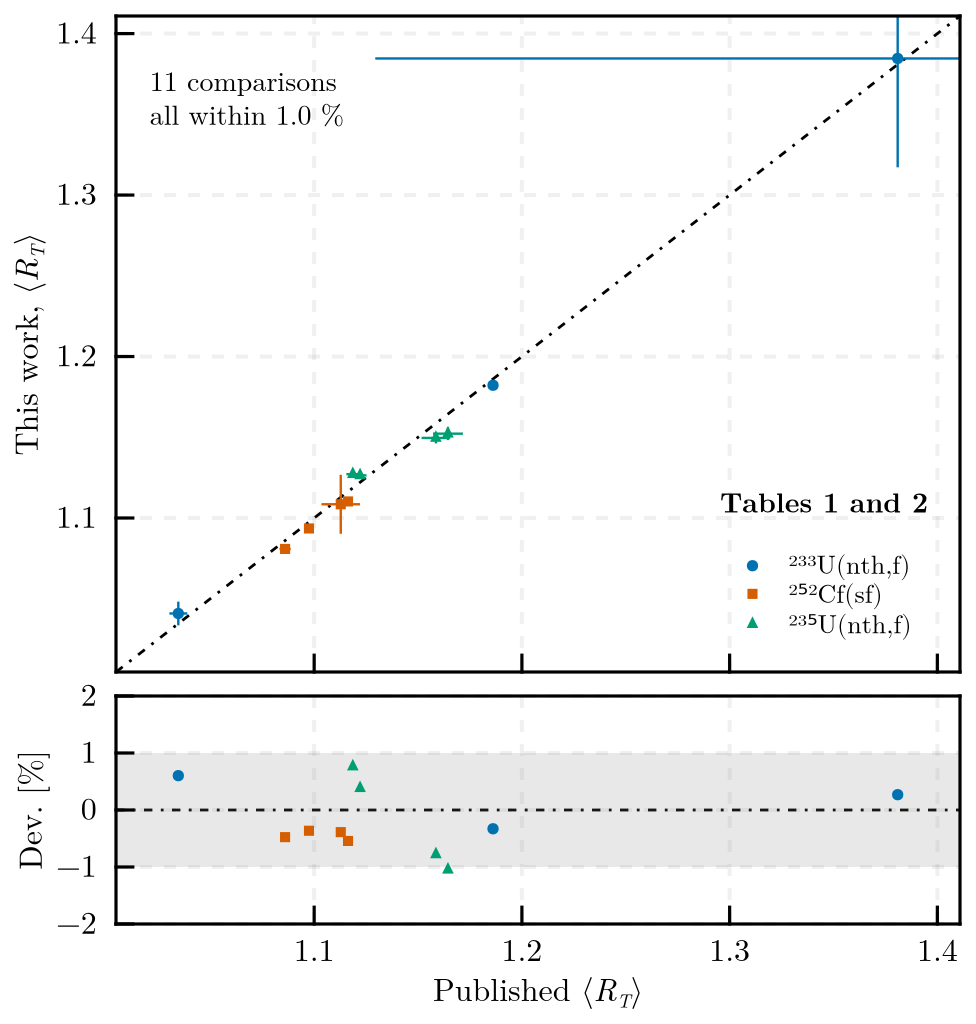
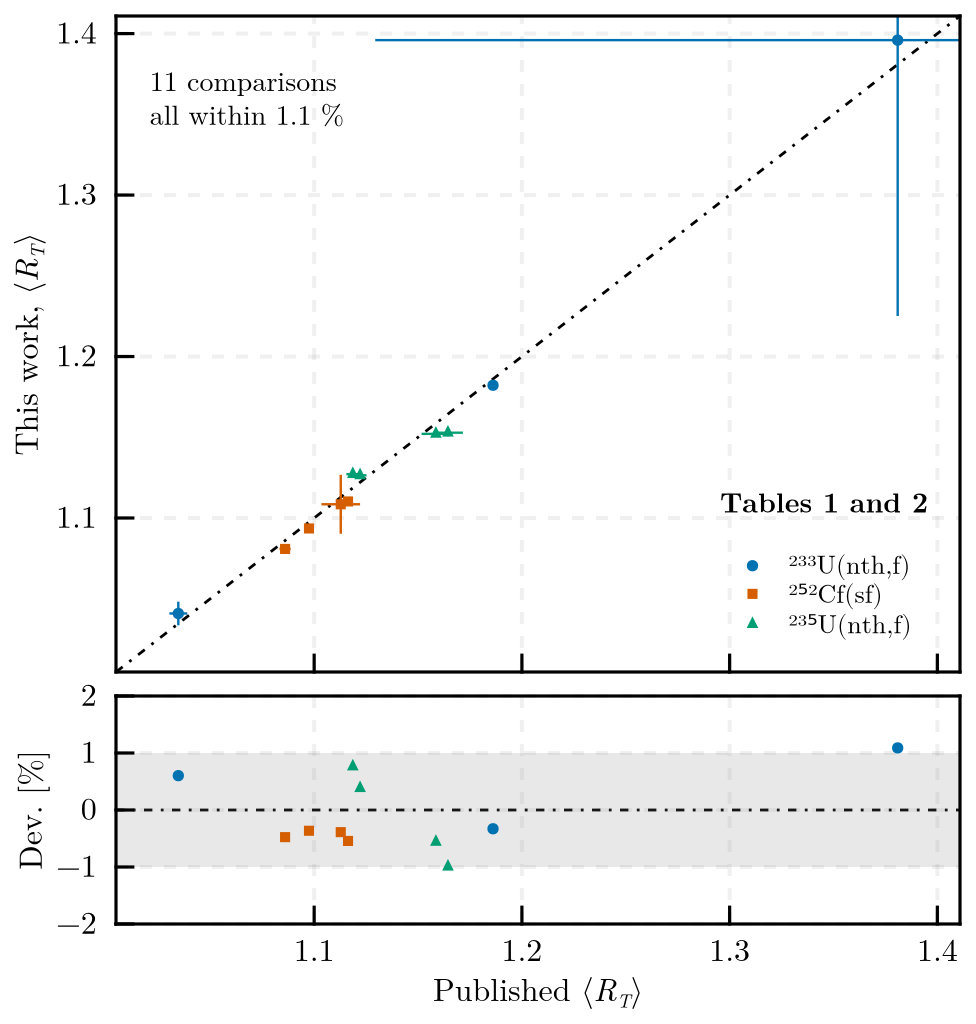
fix: pin r_nu = 1/2 at the symmetric split only
fit_segments pins at the first abscissa it is given, and the pipeline passed
each dataset's own abscissae, so a dataset whose first complete fragment pair
lies above A0/2 was pinned to one half there: 235-U Nishio 1998 at A_H = 126
(measured 0.280 +/- 0.038), 252-Cf Britt 1964 at 136, thirteen of the 35
shipped per-dataset curves in all. The configuration check on heavy_mass_min
guarded the configured range, not the data.

The pin is now applied only to a curve whose first complete pair is A0/2;
other datasets are fitted unpinned and the run reports which. Every manifest
entry states pinned_at_symmetric_split, and the symmetry diagnostics inspect
every curve instead of the first and warn on a pin at any other abscissa.

Against Table 1 of EPJA 60, 190 (2024): 239-Pu Nishio moves from 2.0 % to
0.09 %, 235-U Nishio from 0.78 %/1.05 % to 0.56 %/1.00 %, 233-U Fraser from
0.27 % to 1.09 %. Curves starting at the symmetric split, and all trend
curves, are unchanged.

Tests: a synthetic pipeline run with one dataset starting above the symmetric
split (fails on the previous code), and the eleven identifiable rows of
Table 1 asserted with per-row tolerances where the input data is present.
README validation table, method page, changelog and the published-comparison
figure follow; its annotation now rounds the worst deviation up, not to
nearest.

diff --git a/README.md b/README.md
@@ -16,7 +16,7 @@ The method, its conventions and its equation numbering are those of A. Tudora an
 *Eur. Phys. J. A* **60**, 190 (2024),
 [doi:10.1140/epja/s10050-024-01375-7](https://doi.org/10.1140/epja/s10050-024-01375-7), and this
 package reproduces the results published there: the total average temperature ratios of its
-Tables 1 and 2 come back to better than one per cent for ²³³U(nth,f), ²⁵²Cf(sf) and ²³⁵U(nth,f).
+Tables 1 and 2 come back to within 1.1 % for ²³³U(nth,f), ²⁵²Cf(sf) and ²³⁵U(nth,f).
 The [validation status](#validation-status) below states exactly what has been checked against the
 paper and what has not.
 
@@ -351,6 +351,7 @@ label = "K. Nishio 1998"
 kind = "dataset"             # or "systematic_trend"
 pooled = true
 segments = 5
+pinned_at_symmetric_split = true   # false for a dataset whose complete pairs begin above A0/2
 temperature_ratio_file = "R_T_vs_A_H_segmented_....csv"
 multiplicity_ratio_pivots_file = "r_nu_vs_A_H_pivots_....csv"
 ```
@@ -398,7 +399,7 @@ and `R_T` follows by the relation above.
 
 Constraints that are exact are enforced rather than fitted: the charge polarization vanishes at
 the symmetric split, where the two fragments are the same nuclide; `r_ν` is pinned to one half
-there; and the fitted curve may not leave `(0, 1)`, outside which the relation above is
+there, for every curve whose data reach it; and the fitted curve may not leave `(0, 1)`, outside which the relation above is
 undefined. Together these make `R_T(A₀/2) = 1` hold exactly, as an outcome rather than an
 imposition.
 
@@ -437,17 +438,20 @@ Verified:
   again near the most probable fragmentation, and a near-linear rise above it.
 - Sensitivity to the charge polarization. Substituting a tabulated polarization for the average
   values moves `R_T(A_H)` by at most 3.4 %, with a median of 0.27 %, worst at the shell minimum.
-- **The published total averages, to better than one per cent.** The `⟨R_T⟩` of Table 1 of the
+- **The published total averages, to within 1.1 %.** The `⟨R_T⟩` of Table 1 of the
   paper, per `ν(A)` dataset and per `Y(A)` distribution, comes back from independently retrieved
   archive data:
 
   | System | `Y(A)` | Datasets compared | Largest deviation |
   |---|---|---|---|
-  | ²³³U(nth,f) | Surin | 3 of 3 | 0.60 % |
+  | ²³³U(nth,f) | Surin | 3 of 3 | 1.09 % |
   | ²⁵²Cf(sf) | Göök | 4 of 5 | 0.55 % |
-  | ²³⁵U(nth,f) | Al-Adili, Straede | 2 of 3 | 1.05 % |
+  | ²³⁵U(nth,f) | Al-Adili, Straede | 2 of 3 | 1.00 % |
 
   ![Published comparison](docs/src/assets/published_comparison.png)
+
+  The 1.09 % is Fraser's 233-U set, which quotes no uncertainties, has fifteen usable fragment
+  pairs, and carries ±0.25 in the published table; the other two 233-U rows are within 0.60 %.
 
   Table 2 reproduces too: the Gilbert-Cameron variant to 0.21 %, and the one-charge-per-mass
   variant to 0.80 %. The remaining datasets could not be compared because the archive query did
@@ -470,11 +474,11 @@ Verified:
 
 Not verified:
 
-- **²³⁹Pu(nth,f) is not reproduced to the same level**, deviating by 0.7 % to 2.1 %. The published
-  table averages over a yield distribution its caption does not name, and over a second that is
-  calculated rather than measured and so cannot be retrieved; neither distribution used here is
-  demonstrably the one it used. This is an input identification problem rather than a
-  disagreement about the method, but it is unresolved.
+- **²³⁹Pu(nth,f) is reproduced only in part.** The published table averages over a yield
+  distribution its caption does not name, and over a second that is calculated and cannot be
+  retrieved. With the Nishio 1995 `Y(A)`, the Nishio `ν(A)` row comes back to 0.09 % and Fraser to
+  0.7 %, but Apalin and Zamyatnin deviate by 2.0 % and 2.1 %, so the identification of the yield
+  distribution stays open.
 - The effect of using the undeformed Gilbert-Cameron correlation for every fragment. That paper
   fits a second line for deformed nuclei, Eq. (21), with the same slope and an offset some fifteen
   per cent lower. Applying Eq. (20) throughout is deliberate — the data behind the deformed branch

diff --git a/CHANGELOG.md b/CHANGELOG.md
@@ -89,6 +89,19 @@ names while refusing old keys is worse to debug than a clean break.
 
 ### Fixed
 
+- **The pin `r_ν = 1/2` was applied at the first abscissa of each dataset, not at the symmetric
+  split.** `r_ν = 1/2` is an identity at `A₀/2` only, but a dataset whose first complete fragment
+  pair lies above it was pinned to one half there: 235-U Nishio 1998 at `A_H = 126`, where the
+  measured ratio is 0.28, 252-Cf Britt 1964 at 136, and eleven others across the four shipped
+  systems. **This moves the numbers** of those thirteen curves — `R_T(A_H)` near the first
+  abscissa by tens of per cent, `⟨R_T⟩` by up to 31 % for the sparsest sets — and leaves every
+  curve that starts at the symmetric split, and every systematic-trend curve, unchanged. Such
+  datasets are now fitted unpinned, the run reports which, and each manifest entry carries
+  `pinned_at_symmetric_split`. Against Table 1 of the paper the 239-Pu Nishio row moves from
+  2.0 % to 0.09 %, 235-U Nishio from 0.78 % and 1.05 % to 0.56 % and 1.00 %, and 233-U Fraser from
+  0.27 % to 1.09 %.
+- The published total averages are now asserted by the test suite, where the input data is
+  present, instead of being compared by the documentation script only.
 - Tick labels of adjacent panels ran together in the method-chain figure. The row gaps were being
   set by index before the legend was added, which renumbers them, so the gap that was tightened
   was not the one intended.

diff --git a/docs/src/method.md b/docs/src/method.md
@@ -57,7 +57,8 @@ information criterion, which prices both the extra slope and the extra breakpoin
 for every order examined is retained, so the choice can be audited.
 
 Two constraints are enforced during the search because they are exact, not preferences: the fit
-is pinned at the symmetric split, and it may not leave the interval ``(0, 1)``, outside which the
+is pinned to one half at the symmetric split — for a dataset whose complete pairs begin above
+it the identity has no abscissa to act on, and that curve is fitted unpinned — and it may not leave the interval ``(0, 1)``, outside which the
 temperature ratio relation is undefined. Since a piecewise-linear function attains its extrema at
 its pivots, the bound is tested exactly rather than sampled.
 
